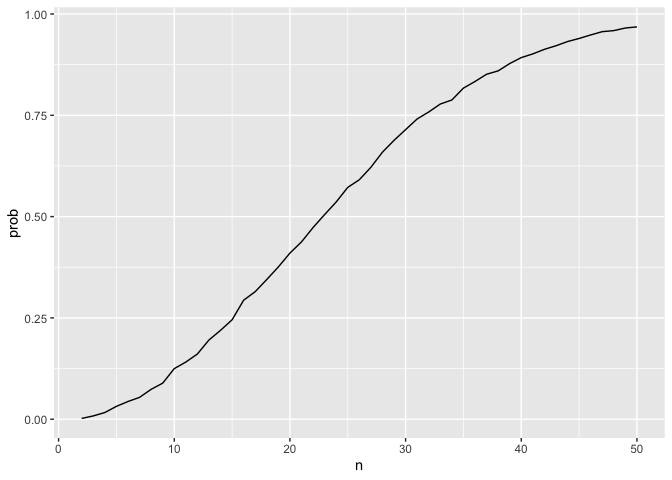
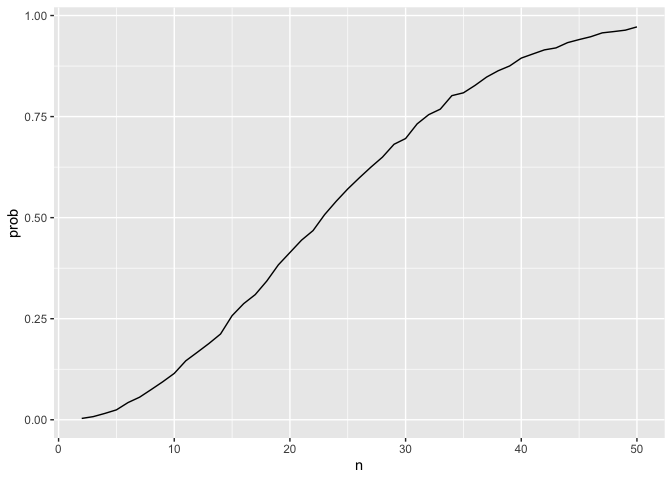
finish of question 1

diff --git a/p8105_hw5_lx2346.md b/p8105_hw5_lx2346.md
@@ -33,16 +33,16 @@ sim_res
     ## # A tibble: 49 × 2
     ##        n   prob
     ##    <int>  <dbl>
-    ##  1     2 0.0019
-    ##  2     3 0.0081
-    ##  3     4 0.0165
-    ##  4     5 0.0317
-    ##  5     6 0.0437
-    ##  6     7 0.0539
-    ##  7     8 0.0737
-    ##  8     9 0.0889
-    ##  9    10 0.125 
-    ## 10    11 0.141 
+    ##  1     2 0.0033
+    ##  2     3 0.0078
+    ##  3     4 0.0157
+    ##  4     5 0.0245
+    ##  5     6 0.0425
+    ##  6     7 0.0558
+    ##  7     8 0.0746
+    ##  8     9 0.0939
+    ##  9    10 0.115 
+    ## 10    11 0.146 
     ## # ℹ 39 more rows
 
 ### Make a plot showing the probability as a function of group size, and comment on your results.
@@ -66,7 +66,7 @@ exceeds 0.5.
 normal_sim = function(miu = 0, sample_size = 30, sigma = 5) {
   sim_data = tibble(x_vec = rnorm(sample_size, miu , sigma))
   
-  test_result = t.test(sim_data$x_vec, mu = miu)
+  test_result = t.test(sim_data$x_vec, mu = 0)
   res_clean = broom::tidy(test_result)
   
   out_df = tibble(mu_hat = res_clean$estimate,
@@ -88,18 +88,18 @@ sim_res_2
 ```
 
     ## # A tibble: 5,000 × 3
-    ##     iter mu_hat p_value
-    ##    <int>  <dbl>   <dbl>
-    ##  1     1   1.37   0.715
-    ##  2     2   3.36   0.217
-    ##  3     3   2.05   0.229
-    ##  4     4   3.16   0.278
-    ##  5     5   4.09   0.414
-    ##  6     6   6.02   0.979
-    ##  7     7   6.56   0.581
-    ##  8     8   7.72   0.760
-    ##  9     9  10.1    0.159
-    ## 10    10   8.71   0.134
+    ##     iter mu_hat  p_value
+    ##    <int>  <dbl>    <dbl>
+    ##  1     1  0.682 5.54e- 1
+    ##  2     2  2.59  1.76e- 4
+    ##  3     3  4.00  4.73e- 5
+    ##  4     4  3.76  5.13e- 4
+    ##  5     5  5.84  3.11e- 6
+    ##  6     6  4.59  1.66e- 5
+    ##  7     7  7.77  2.38e-10
+    ##  8     8  8.91  5.88e- 9
+    ##  9     9  8.51  1.19e-10
+    ## 10    10  9.35  6.92e-15
     ## # ℹ 4,990 more rows
 
 ### Repeat the above for 𝜇={1,2,3,4,5,6}
@@ -129,6 +129,13 @@ sim_res_3 |>
 ```
 
 ![](p8105_hw5_lx2346_files/figure-gfm/unnamed-chunk-8-1.png)<!-- -->
+**Describe the association between effect size and power**: The effect
+size is the difference between the true mean μ and the null hypothesis
+(0). As we can see from the plot, there is a positive association
+between effect size and power. As the effect size increases, the power
+of the statistical test also increases. This is because larger effect
+sizes are easier to detect against the backdrop of variability in the
+data.
 
 ### Make a plot showing the average estimate of 𝜇̂ on the y axis and the true value of 𝜇 on the x axis + a second plot showing the average estimate of 𝜇̂ only in samples for which the null was rejected on the y axis and the true value of 𝜇 on the x axis.
 
@@ -147,13 +154,16 @@ mu_df = left_join(mean_mu, mean_mu_rej, by = "n")
 mu_df |>
   ggplot(aes(x = n)) +
   geom_line(aes(y = mean_mu, color = "Average μ̂"), size = 1.5 )+
-  geom_point(aes(y = mean_mu), shape = 1, size = 3, fill = "#bc6356") +
+  geom_point(aes(y = mean_mu), shape = 1, size = 3) +
   geom_line(aes(y = mean_mu_rej,color = "Average μ̂ (Null Rejected)"))+
-  geom_point(aes(y = mean_mu_rej), shape = 2, size = 3, fill = "#70a5d9") +
+  geom_point(aes(y = mean_mu_rej), shape = 2, size = 3) +
   labs(title = "Average Estimate of μ̂ vs True Value of μ",
        x = "True Value of μ",
        y = "Average Estimate of μ̂",
-       color = "Legend")
+       color = "Legend") +
+  theme(plot.title = element_text(hjust = 0.5)) +
+  scale_x_continuous(breaks = seq(1, 6, by = 1)) +
+  scale_y_continuous(breaks = seq(1, 6, by = 1))
 ```
 
     ## Warning: Using `size` aesthetic for lines was deprecated in ggplot2 3.4.0.
@@ -162,4 +172,8 @@ mu_df |>
     ## Call `lifecycle::last_lifecycle_warnings()` to see where this warning was
     ## generated.
 
-![](p8105_hw5_lx2346_files/figure-gfm/unnamed-chunk-9-1.png)<!-- -->
+![](p8105_hw5_lx2346_files/figure-gfm/unnamed-chunk-9-1.png)<!-- -->  
+**Comment**: It can be observed that as the true value of μ increases,
+the average μ̂ gradually approaches the average μ̂ (Null Rejected). This
+indicates that with an increase in effect size, more samples are being
+rejected, meaning that the power of the test is gradually increasing.
